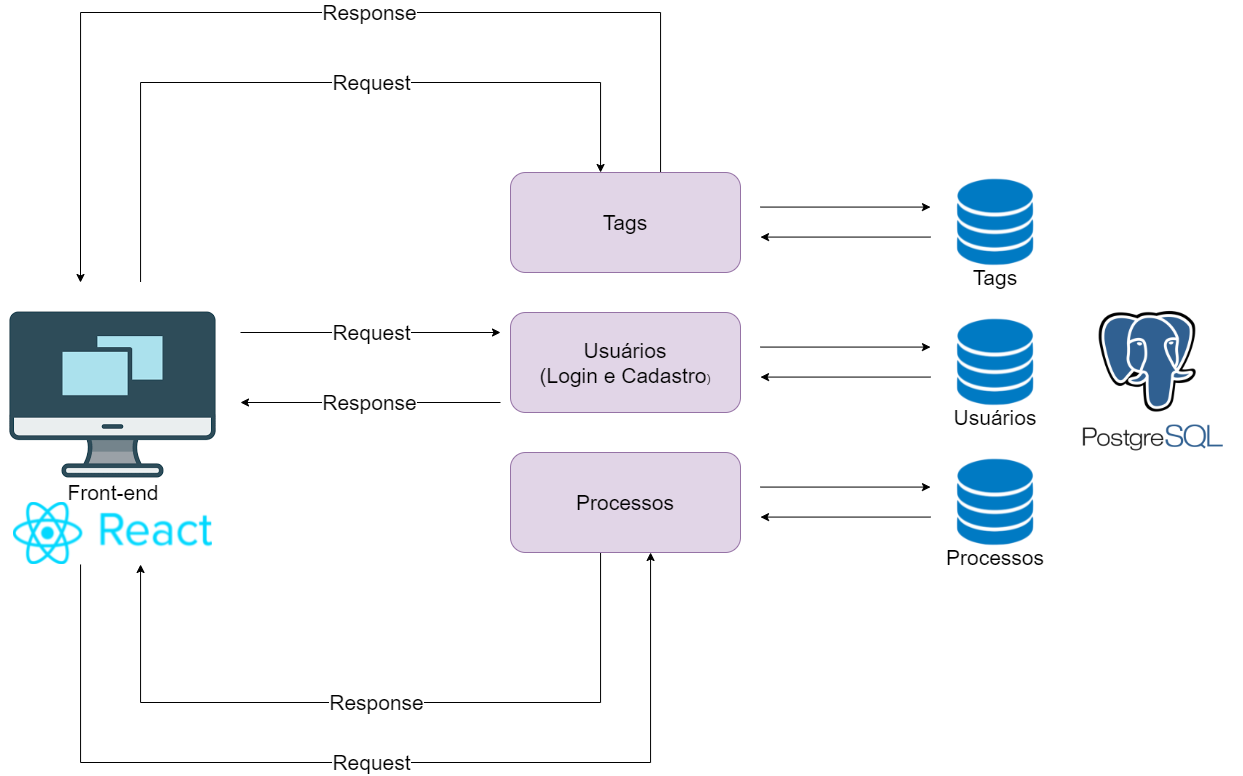
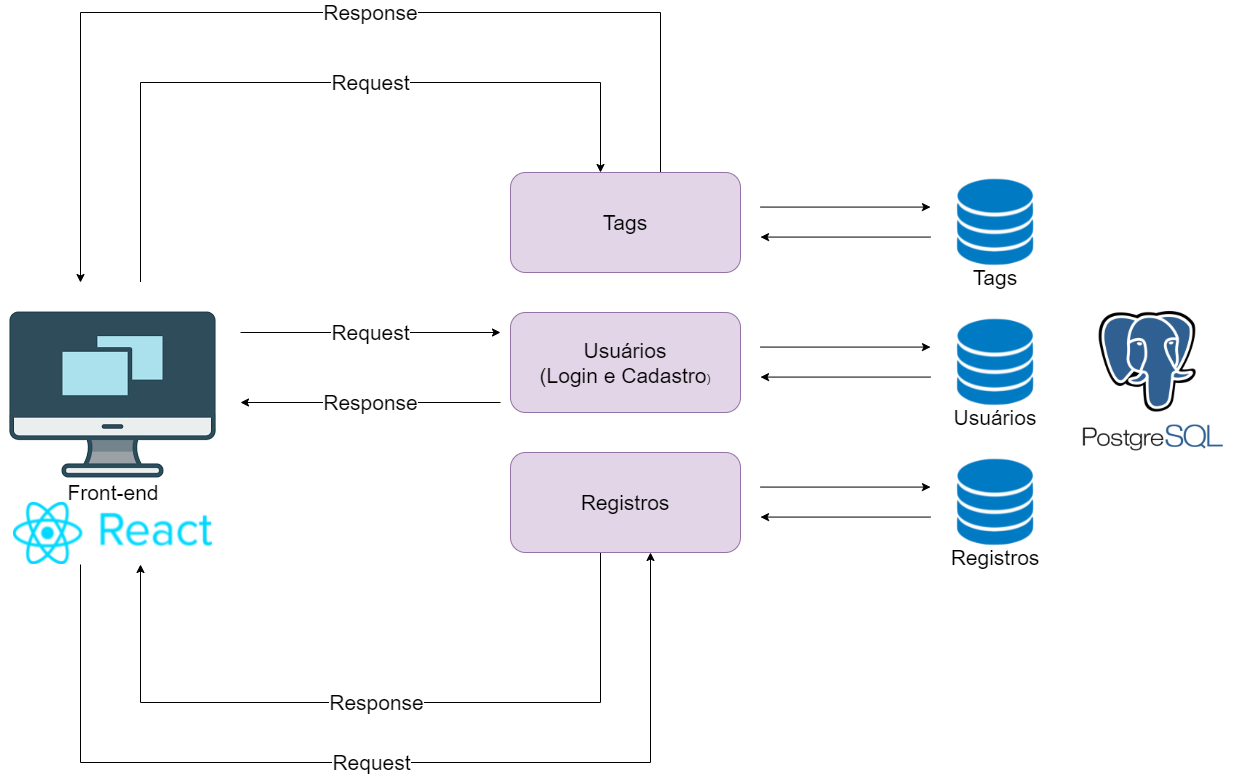
#6 update architecture document

diff --git a/docs/documento-de-arquitetura.md b/docs/documento-de-arquitetura.md
@@ -7,6 +7,7 @@
 | 10/08/2021 | 0.1    | Abertura do documento de Arquitetura                         | Érico Maximiano Bandeira |
 | 07/09/2021 | 0.2    | Adição da introdução e Representação da arquitetura          | Max Henrique Barbosa     |
 | 11/09/2021 | 0.3    | Adição de imagem e alteração na Representação da arquitetura | Max Henrique Barbosa     |
+| 23/09/2021 | 0.4    | Adição da Visão Lógica                                       | Max Henrique Barbosa     |
 
 ## 1. Introdução
 
@@ -95,39 +96,23 @@ O PostgreSQL tem o papel de gerenciar os dados desses bancos de maneira organiza
  - **React:** framework javascript utilizado para a criação da interface do usuário;
  - **PostgreSQL:** Banco de dados relacional.
 
-- **Node.Js:** desenvolvimento dos microsserviços;
-- **React:** framework javascript utilizado para a criação da interface do usuário;
-- **PostgreSQL:** Banco de dados relacional.
+## 4. Visão Lógica
 
-<!-- ### 3.3 Requisitos não funcionais
+### 4.1 Modelagem de Dados
 
-## 4. Visão dos Casos de Uso
+![Diagrama de pacotes microsserviços](./imgs/architecture/visao-logica.drawio.png)
 
-### 4.1 Diagrama de Casos de Uso
+### 4.2 Diagrama de Pacotes
 
-### 4.2 Atores de Casos de Uso
+#### Microsserviços
 
-| Ator | Descrição |
-| ---- | --------- |
-| -    | -         |
+![Diagrama de pacotes microsserviços](./imgs/architecture/pacote-microsservicos.drawio.png)
 
-### 4.3 Descrições de Casos de Uso
+#### Front-End
 
-| Épico | Caso de uso | Descrição |
-| ----- | ----------- | --------- |
-| E1    | -           | -         |
-| E2    | -           | -         |
-| E3    | -           | -         |
+![Diagrama de pacotes frontend](./imgs/architecture/pacote-frontend.drawio.png)
 
-## 5. Visão Lógica
-
-### 5.1 Diagrama de Pacotes
-
-## 6. Tamanho e desempenho
-
-## 7. Qualidade -->
-
-## Referências
+### 5. Referências
 
 - Documentação do Postgre - https://www.postgresql.org/docs/
 - Documentação do NodeJs - https://nodejs.org/en/docs/
